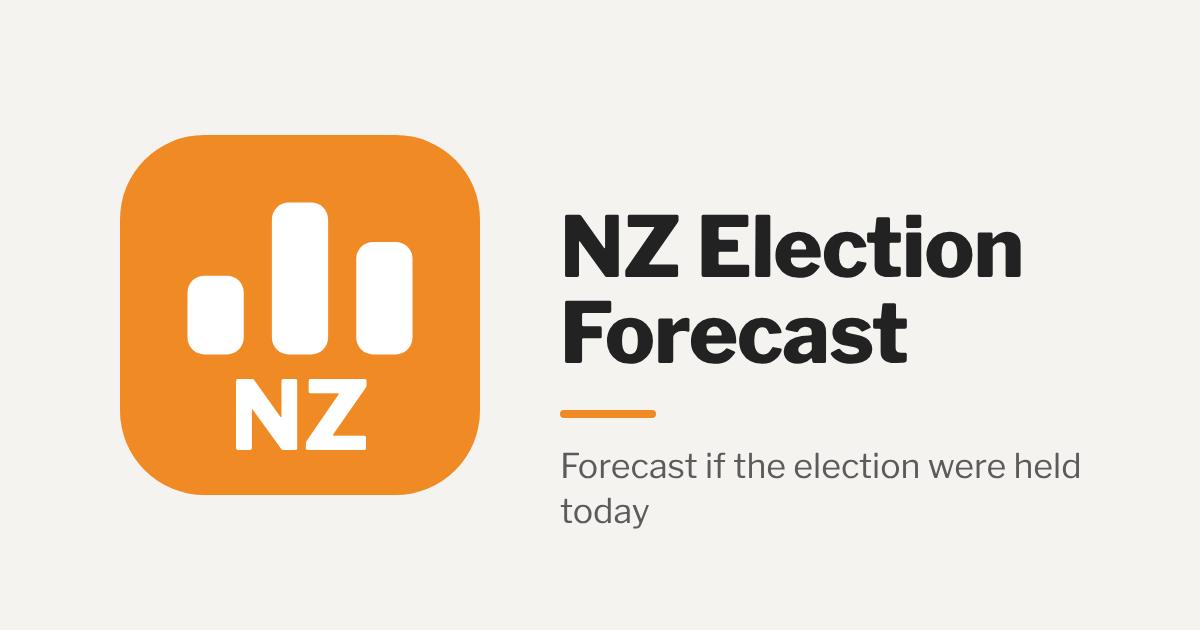
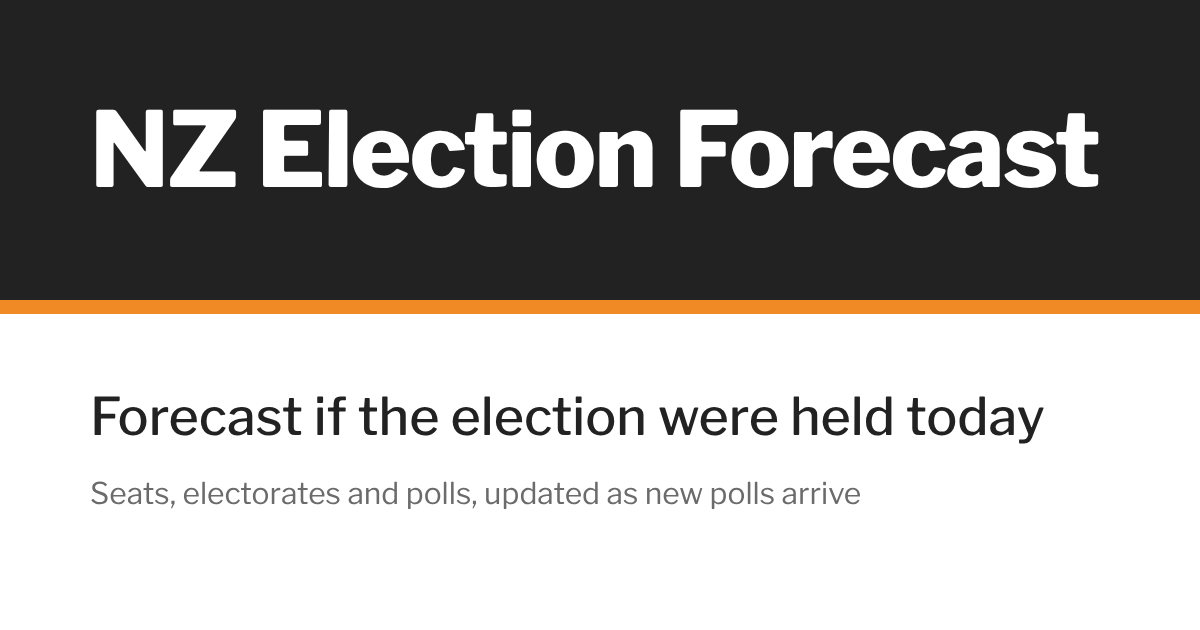
Site: plain share card in the site's masthead look
Claude-Session: https://claude.ai/code/session_01TiFL4WNxMjFKWDBvWT8SQy

diff --git a/scripts/site_art/social-card.html b/scripts/site_art/social-card.html
@@ -2,14 +2,12 @@
 <!-- Source of public/social-card.png (1200 x 630): open in a browser at that size and take a screenshot. -->
 <html><head><meta charset="utf-8"><style>
 @font-face{font-family:'Libre Franklin';font-weight:100 900;src:url('../../public/fonts/libre-franklin-latin-wght-normal.woff2') format('woff2')}
-html,body{margin:0;width:1200px;height:630px;background:#f4f3f0;font-family:'Libre Franklin',Arial,sans-serif;overflow:hidden}
-.card{position:relative;width:1200px;height:630px}
-.tile{position:absolute;left:120px;top:135px;width:360px;height:360px}
-.text{position:absolute;left:560px;top:205px;width:560px}
-h1{margin:0;font-size:84px;line-height:1.02;font-weight:800;color:#222;letter-spacing:-1px}
-p{margin:26px 0 0;font-size:34px;line-height:1.3;color:#5b5b5b}
-.rule{width:96px;height:8px;background:#f08a24;margin-top:34px;border-radius:4px}
-</style></head><body><div class="card">
-<svg class="tile" viewBox="0 0 64 64"><rect width="64" height="64" rx="15" fill="#f08a24"/><rect x="12" y="25" width="10" height="14" rx="3" fill="#fff"/><rect x="27" y="12" width="10" height="27" rx="3" fill="#fff"/><rect x="42" y="19" width="10" height="20" rx="3" fill="#fff"/><text x="32" y="56" text-anchor="middle" font-family="'Libre Franklin',Arial,sans-serif" font-size="17" font-weight="800" fill="#fff">NZ</text></svg>
-<div class="text"><h1>NZ Election Forecast</h1><div class="rule"></div><p>Forecast if the election were held today</p></div>
-</div></body></html>
+html,body{margin:0;width:1200px;height:630px;background:#fff;font-family:'Libre Franklin',Arial,sans-serif;overflow:hidden}
+.band{background:#222;height:300px;border-bottom:14px solid #f08a24;display:flex;align-items:center;padding:0 90px}
+h1{margin:0;font-size:104px;line-height:1;font-weight:800;color:#fff;letter-spacing:-2px}
+h1 span{font-weight:800}
+.body{padding:70px 90px}
+p{margin:0;font-size:52px;line-height:1.25;color:#222;font-weight:500}
+small{display:block;margin-top:26px;font-size:30px;color:#6b6b6b}
+</style></head><body><div class="band"><h1>NZ <span>Election Forecast</span></h1></div>
+<div class="body"><p>Forecast if the election were held today</p><small>Seats, electorates and polls, updated as new polls arrive</small></div></body></html>

diff --git a/handoff.d/2026-10-10-stage84-public-site.md b/handoff.d/2026-10-10-stage84-public-site.md
@@ -17,7 +17,7 @@
 - Frozen archive (James, 2026-10-10): the Archive page links each current forecast to `archive/<date>/`, a frozen copy of the whole site as it was that week, built with `SITE_ARCHIVE_DATE=YYYY-MM-DD SITE_OUT_DIR=site-archived npm run build` (banner "You're viewing the forecast from <date>. See the latest" linking to the live root); the publish step copies that folder to `archive/<date>/` once and never rewrites it. The masthead "Independent research project" tag is removed. Display only; no producer or export change.
 - Seat detail on the electorates page eases open and shut over about 0.45 s (`electorates/Collapsible.tsx`), the previous seat folding shut as the new one opens, instead of snapping. Display only.
 - Charts (James, 2026-10-10): hovering a band on "How support has moved" shows the party, week and exact median with its 90% range (nearest estimate where bands overlap), and hovering "How the odds have moved" shows the nearest line, release date and chance. The support chart opens at 1 January 2026 with a "Since the 2023 election" tick box for the whole run. Display only; the export is unchanged.
-- Tab icon and share card (James, 2026-10-10): a soft orange tile with bars and "NZ" (`public/favicon.svg`, `apple-touch-icon.png`, `social-card.png`; card source in `scripts/site_art/`), linked from every page with Open Graph and Twitter tags; the share image uses the absolute address `https://jamesfeng24.github.io/social-card.png`. Display only.
+- Tab icon and share card (James, 2026-10-10): the tab icon is a soft orange tile with bars and "NZ" (`public/favicon.svg`, `apple-touch-icon.png`); the share card (`social-card.png`, source in `scripts/site_art/`) is plain, in the site's masthead look, linked from every page with Open Graph and Twitter tags; the share image uses the absolute address `https://jamesfeng24.github.io/social-card.png`. Display only.
 - Phone layout (James, 2026-10-10): the seat page's candidate table becomes a card per candidate on phones with the bar full width, the shared percentage scale thins its labels to the measured width (and no longer labels past the axis end), and the seat list fits a 360 px screen. Display only.
 
 <!-- fold: state -->

diff --git a/docs/stage84-public-site.md b/docs/stage84-public-site.md
@@ -21,7 +21,7 @@ Each page is its own static HTML file (`<page>/index.html`, listed in `src/app/p
 - **About** (`AboutView.tsx`, addresses in `siteLinks.ts`): who runs the site and how to get in touch. Each link shows its name above the address and a short note. A link with no address is not shown.
 - **Footer on every page:** "Licensed under CC BY 4.0", linked to the licence text. There is no LICENSE file in the public repository.
 
-Tab icon and share card: `public/favicon.svg` (a soft orange tile with three white bars and "NZ"), `public/apple-touch-icon.png` (the same tile, square, 180 px) and `public/social-card.png` (1200 x 630: the tile, the site name and "Forecast if the election were held today"; source `scripts/site_art/social-card.html`, screenshot at that size). Every page links the icons by relative path and carries Open Graph and Twitter card tags; the share image's address is absolute (`https://jamesfeng24.github.io/social-card.png`) because link previews need one, so change it in the seven page heads if the site address changes. `404.html` has none.
+Tab icon and share card: `public/favicon.svg` (a soft orange tile with three white bars and "NZ"), `public/apple-touch-icon.png` (the same tile, square, 180 px) and `public/social-card.png` (1200 x 630, in the site's masthead look: black band with the name, orange rule, then "Forecast if the election were held today"; source `scripts/site_art/social-card.html`, screenshot at that size). Every page links the icons by relative path and carries Open Graph and Twitter card tags; the share image's address is absolute (`https://jamesfeng24.github.io/social-card.png`) because link previews need one, so change it in the seven page heads if the site address changes. `404.html` has none.
 
 Site name: "NZ Election Forecast". Look: white page, dark masthead with an orange accent (`#f08a24`), square corners, Libre Franklin headings and IBM Plex Mono figures (both SIL OFL, self-hosted as latin and latin-ext woff2 files in `public/fonts/` with their licences; no third-party font request). The stylesheet is `src/styles.css`, arranged by section.
 
